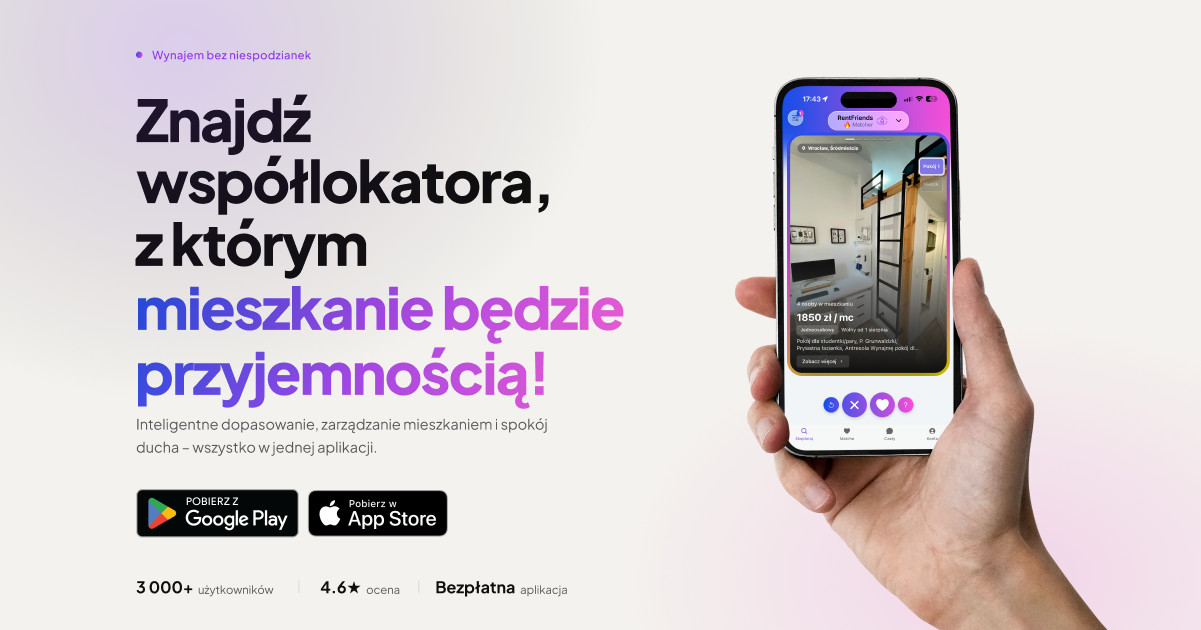
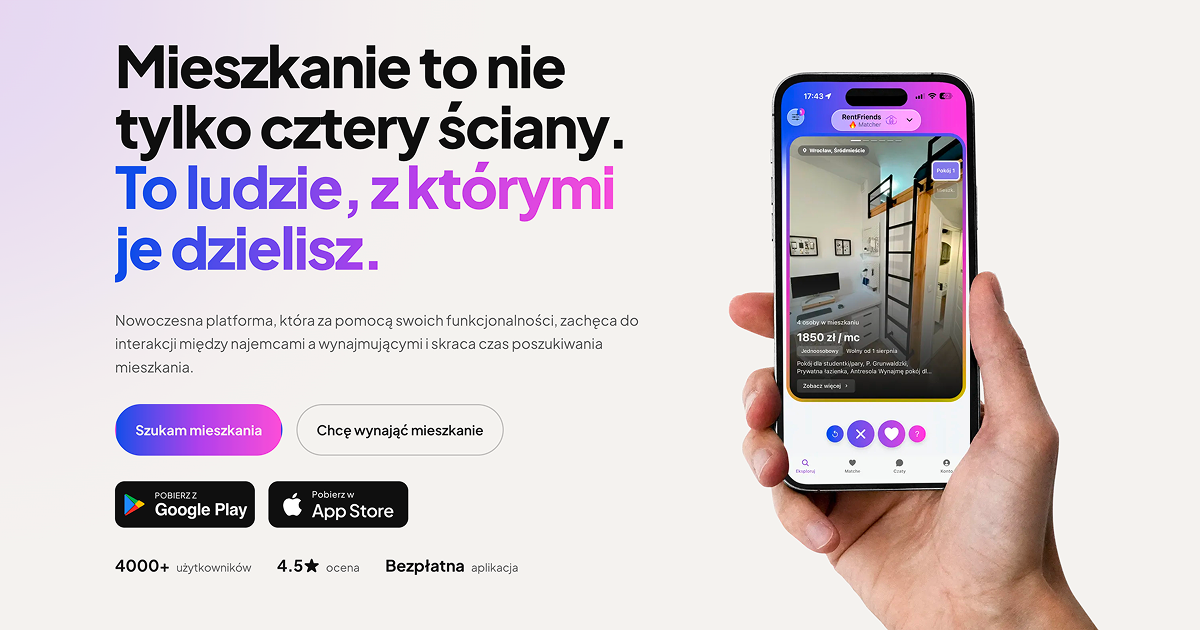
feat: delete dyzury.app descriptions

diff --git a/src/data/faq.ts b/src/data/faq.ts
@@ -1,42 +1,32 @@
 export const faqs = {
     pl: {
         col1: [
-            { q: "Jak działa RentFriends?", a: "RentFriends to dwa moduły w jednej aplikacji. Matcher pozwala szukać współlokatorów i mieszkań - swipe’ujesz profile dopasowane do twojego stylu życia, budżetu i preferencji. Manager (dawniej Dyżury.app) pomaga zarządzać wspólnym mieszkaniem - tworzy harmonogramy sprzątania, przydziela zadania i wysyła powiadomienia o dyżurach." },
+            { q: "Jak działa RentFriends?", a: "RentFriends pomaga znaleźć współlokatorów, pokoje i mieszkania. Swipe’ujesz profile i ogłoszenia dopasowane do Twojego stylu życia, budżetu i preferencji, a kontakt nawiązujecie dopiero wtedy, gdy obie strony wyrażą zainteresowanie." },
             { q: "Czy aplikacja jest bezpłatna?", a: "Tak, aplikacja jest bezpłatna." },
             { q: "Czy RentFriends jest dostępna na Androida i iOS?", a: "Aplikacja jest dostępna zarówno na Androida, jak i iOS." },
             { q: "Jak długo moje dane są przechowywane w aplikacji?", a: "Dane są przechowywane tak długo, jak korzystasz z aplikacji. Możesz je także usunąć w dowolnym momencie. Jeżeli chcesz, aby Twoje dane zostały usunięte z naszej bazy danych, skontaktuj się z nami poprzez email: kontakt@rentfriends.app." },
-            { q: "Czy mogę korzystać z aplikacji bez połączenia z internetem?", a: "Nie, aplikacja wymaga połączenia z internetem, aby działać poprawnie." },
-            { q: "Czy mogę korzystać z aplikacji na kilku urządzeniach?", a: "Tak, aplikację można zainstalować na kilku urządzeniach i korzystać z niej na każdym z nich. Dane są synchronizowane między urządzeniami." },
-            { q: "Jak działa wyszukiwanie współlokatorów?", a: "Tworzysz profil z informacjami o sobie i swoich preferencjach - styl życia, budżet, nawyki, lokalizacja. Potem przeglądasz profile innych osób i ogłoszenia mieszkań, swipe’ując w prawo (interesuje mnie) lub w lewo (pomiń). Aplikacja pokazuje Ci osoby i ogłoszenia dopasowane do Twoich filtrów. Jeśli obie strony swipe’ują w prawo, następuje match - dopiero wtedy możecie nawiązać kontakt. Dzięki temu nikt nie dostaje wiadomości od osób, które go nie interesują." }
+            { q: "Czy mogę korzystać z aplikacji bez połączenia z internetem?", a: "Nie, aplikacja wymaga połączenia z internetem, aby działać poprawnie." }
         ],
         col2: [
+            { q: "Czy mogę korzystać z aplikacji na kilku urządzeniach?", a: "Tak, aplikację można zainstalować na kilku urządzeniach i korzystać z niej na każdym z nich. Dane są synchronizowane między urządzeniami." },
+            { q: "Jak działa wyszukiwanie współlokatorów?", a: "Tworzysz profil z informacjami o sobie i swoich preferencjach - styl życia, budżet, nawyki, lokalizacja. Potem przeglądasz profile innych osób i ogłoszenia mieszkań, swipe’ując w prawo (interesuje mnie) lub w lewo (pomiń). Aplikacja pokazuje Ci osoby i ogłoszenia dopasowane do Twoich filtrów. Jeśli obie strony swipe’ują w prawo, następuje match - dopiero wtedy możecie nawiązać kontakt. Dzięki temu nikt nie dostaje wiadomości od osób, które go nie interesują." },
             { q: "Czy mój profil jest widoczny dla wszystkich?", a: "Nie - Twój profil widzą tylko osoby, u których pasują ustawione filtry, m.in. miasto, wiek, płeć, budżet czy preferencje dotyczące stylu życia. Jeśli ktoś szuka współlokatora w innym mieście albo z innymi kryteriami, Twój profil mu się po prostu nie pokaże." },
-            { q: "Czy mogę dodać kilku współlokatorów?", a: "Tak! Aplikacja pozwala dodać wielu współlokatorów. Każdy może dołączyć do wielu dyżurów, nie koniecznie każdy do tych samych. Np. jeżeli w mieszkaniu są 2 łazienki, to jeden współlokator może być przypisany do sprzątania jednej łazienki, a drugi do drugiej." },
-            { q: "Czy mogę ustawić różne zadania dla różnych dyżurów?", a: "Tak, aplikacja pozwala na przydzielanie różnych zadań do różnych dyżurów. Możesz ustawić, że w jednym tygodniu jeden współlokator sprząta kuchnię, a drugi łazienkę." },
-            { q: "Czy mogę ustawić, żeby dyżury były co dwa tygodnie?", a: "Dyżury przypisują się automatycznie co tydzień, ale można ustawić na poszczególnych zadaniach, żeby były wykonywane co dwa tygodnie." },
-            { q: "Czy mogę usunąć współlokatora z dyżuru?", a: "Tak, można usunąć współlokatora z dyżuru w dowolnym momencie." },
-            { q: "Czy Rent Friends i RentFriends to ta sama aplikacja?", a: "Tak, RentFriends (często zapisywane lub wyszukiwane ze spacją jako Rent Friends) to ta sama aplikacja do szukania współlokatorów, pokoi i mieszkań oraz wspólnego zarządzania domem."},
-            { q: "Czy mogę zmienić przypisane zadanie w trakcie tygodnia?", a: "Tak, zadania można edytować w każdej chwili, dostosowując harmonogram do bieżących potrzeb. Zadania zostaną zaktualizowane w obecnie trwającym dyżurze oraz w przyszłych." }
+            { q: "Czy Rent Friends i RentFriends to ta sama aplikacja?", a: "Tak, RentFriends (często zapisywane lub wyszukiwane ze spacją jako Rent Friends) to ta sama aplikacja do szukania współlokatorów, pokoi i mieszkań."}
         ]
     },
     en: {
         col1: [
-            { q: "How does RentFriends work?", a: "RentFriends consists of two modules in one application. The Matcher allows you to search for roommates and apartments - you swipe through profiles tailored to your lifestyle, budget, and preferences. The Manager (formerly Dyżury.app) helps you manage a shared apartment - it creates cleaning schedules, assigns tasks, and sends notifications about duties." },
+            { q: "How does RentFriends work?", a: "RentFriends helps you find roommates, rooms, and apartments. You swipe through profiles and listings tailored to your lifestyle, budget, and preferences, and you only get in touch once both sides have shown interest." },
             { q: "Is the app free?", a: "Yes, the application is completely free." },
             { q: "Is RentFriends available on Android and iOS?", a: "The app is available for both Android and iOS devices." },
             { q: "How long is my data stored in the app?", a: "Your data is stored for as long as you use the app. You can also delete it at any time. If you want your data to be removed from our database, please contact us via email at: kontakt@rentfriends.app." },
-            { q: "Can I use the app without an internet connection?", a: "No, the application requires an active internet connection to function properly." },
-            { q: "Can I use the app on multiple devices?", a: "Yes, you can install the app on multiple devices and use it on each of them. Your data is synced automatically across all devices." },
-            { q: "How does the roommate search work?", a: "You create a profile containing information about yourself and your preferences (lifestyle, budget, habits, location). Then, you browse other people's profiles and apartment listings, swiping right (interested) or left (skip). The app displays users and listings matched to your filters. If both parties swipe right, a match is made - only then can you start chatting. This ensures no one receives messages from people they aren't interested in." }
+            { q: "Can I use the app without an internet connection?", a: "No, the application requires an active internet connection to function properly." }
         ],
         col2: [
+            { q: "Can I use the app on multiple devices?", a: "Yes, you can install the app on multiple devices and use it on each of them. Your data is synced automatically across all devices." },
+            { q: "How does the roommate search work?", a: "You create a profile containing information about yourself and your preferences (lifestyle, budget, habits, location). Then, you browse other people's profiles and apartment listings, swiping right (interested) or left (skip). The app displays users and listings matched to your filters. If both parties swipe right, a match is made - only then can you start chatting. This ensures no one receives messages from people they aren't interested in." },
             { q: "Is my profile visible to everyone?", a: "No - your profile is only visible to people whose filters match yours (e.g., city, age, gender, budget, lifestyle preferences). If someone is looking for a roommate in a different city or with different criteria, your profile simply won't appear to them." },
-            { q: "Can I add multiple roommates?", a: "Yes! The app allows you to add multiple roommates. Everyone can join various duties, not necessarily everyone on the same ones. For instance, if an apartment has two bathrooms, one roommate can be assigned to clean one bathroom, and another to clean the second." },
-            { q: "Can I assign different tasks for different duties?", a: "Yes, the app lets you assign distinct tasks to different duties. You can set it up so that one week one roommate cleans the kitchen, and another cleans the bathroom." },
-            { q: "Can I set duties to occur every two weeks?", a: "Duties are assigned automatically every week, but you can configure specific tasks to be performed on a bi-weekly basis." },
-            { q: "Can I remove a roommate from a duty?", a: "Yes, you can remove a roommate from a duty at any time." },
-            { q: "Are Rent Friends and RentFriends the same app?", a: "Yes, RentFriends (often written or searched with a space as 'Rent Friends') is exactly the same app for finding roommates, rooms, and apartments, as well as managing a shared home." },
-            { q: "Can I modify an assigned task during the week?", a: "Yes, tasks can be edited at any time to adjust the schedule to current needs. The tasks will be automatically updated for the current ongoing duty and all future ones." }
+            { q: "Are Rent Friends and RentFriends the same app?", a: "Yes, RentFriends (often written or searched with a space as 'Rent Friends') is exactly the same app for finding roommates, rooms, and apartments." }
         ]
     }
 };

diff --git a/src/i18n/ui.ts b/src/i18n/ui.ts
@@ -7,7 +7,7 @@ export const defaultLang = 'pl';
 
 export const ui = {
     pl: {
-        'meta.home.description': 'RentFriends pomaga znaleźć idealnego współlokatora i opanować domowe obowiązki bez stresu. Sprawdź naszą aplikację!',
+        'meta.home.description': 'RentFriends pomaga znaleźć pokój, mieszkanie i współlokatora, z którym dobrze się mieszka. Dopasowujemy ludzi po stylu życia, budżecie i nawykach.',
         'meta.landlords.description': 'Wynajmuj pokoje i mieszkania właściwym osobom. RentFriends pomaga właścicielom szybciej znaleźć dopasowanych lokatorów. Dodawanie ogłoszeń jest bezpłatne.',
         'meta.privacy.description': 'Dowiedz się, jakie dane zbiera RentFriends, w jakim celu je przetwarza i jak możesz zarządzać swoją prywatnością oraz plikami cookie.',
         'meta.terms.description': 'Zasady korzystania z aplikacji i serwisu RentFriends - prawa i obowiązki użytkowników, zakres usług oraz warunki ich świadczenia.',
@@ -219,8 +219,8 @@ export const ui = {
         'reviews.title.part1': 'Co mówią',
         'reviews.title.part2': 'użytkownicy?',
         'reviews.1.text': 'Super pomysł, tego właśnie brakowało – nikt nie lubi szukać mieszkania przez olx albo przez Facebooka.',
-        'reviews.2.text': 'Prowadzę kilka mieszkań na pokoje dla studentów i ta apka uratowała mi sporo telefonów typu „zmywarka nie działa”. Dodałam zadania w stylu „Wyczyszczenie filtra zmywarki” i... nagle działa 😉 Prosta, czytelna, szybkie checklisty. Naprawdę polecam.',
-        'reviews.3.text': 'Świetny sposób na szybkie dzielenie obowiązków w mieszkaniu',
+        'reviews.2.text': 'znalazłem pokój w Krakowie, super apka, polecam!',
+        'reviews.3.text': 'super aplikacja bardzo pomocna i przejrzysta',
         'reviews.prev': 'Poprzednia opinia',
         'reviews.next': 'Następna opinia',
 
@@ -249,8 +249,6 @@ export const ui = {
         'features.step3.desc': 'Nasz algorytm łączy osoby o podobnym stylu życia, gwarantując mniej konfliktów w przyszłości.',
         'features.step4.title': 'Czatuj',
         'features.step4.desc': 'Zanim podpiszecie umowę, poznajcie się bliżej w naszym bezpiecznym, wbudowanym czacie.',
-        'features.step5.title': 'Zamieszkaj razem:<br />rozdziel dyżury i podziel wydatki',
-        'features.step5.desc': 'Rachunki, grafik sprzątania i zakupy w jednej aplikacji. Przejrzysty podział obowiązków to gwarancja spokoju w mieszkaniu.',
         'features.community.title': 'Dołącz do naszej społeczności',
         'features.stats.users': 'zadowolonych<br />użytkowników',
         'features.stats.rating': 'średnia ocen<br />na App Store',
@@ -434,7 +432,7 @@ export const ui = {
         'cookies.manage': 'Ustawienia cookies'
     },
     en: {
-        'meta.home.description': 'RentFriends helps you find the right flatmate and stay on top of household chores without the stress. Take a look at our app!',
+        'meta.home.description': 'RentFriends helps you find a room, a flat and a flatmate you\'ll actually enjoy living with. We match people by lifestyle, budget and habits.',
         'meta.landlords.description': 'Rent your rooms and flats to the right people. RentFriends helps landlords find well-matched tenants faster. Publishing a listing is free.',
         'meta.privacy.description': 'Find out what data RentFriends collects, why we process it, and how you can manage your privacy and your cookie preferences.',
         'meta.terms.description': 'The rules for using the RentFriends app and website - user rights and obligations, the scope of our services and the terms we provide them on.',
@@ -646,8 +644,8 @@ export const ui = {
         'reviews.title.part1': 'What do our',
         'reviews.title.part2': 'users say?',
         'reviews.1.text': 'Great idea, exactly what was missing – no one likes searching for a flat through OLX or Facebook.',
-        'reviews.2.text': 'I manage a few student rooms and this app saved me a lot of "the dishwasher is broken" calls. I added tasks like "Clean the dishwasher filter" and... suddenly it works 😉 Simple, clear, quick checklists. Highly recommend.',
-        'reviews.3.text': 'A great way to quickly divide chores in the apartment.',
+        'reviews.2.text': 'I found a room in Krakow, great app, highly recommend!',
+        'reviews.3.text': 'great app, really helpful and clear',
         'reviews.prev': 'Previous review',
         'reviews.next': 'Next review',
 
@@ -676,8 +674,6 @@ export const ui = {
         'features.step3.desc': 'Our algorithm connects people with similar lifestyles, ensuring fewer conflicts in the future.',
         'features.step4.title': 'Chat',
         'features.step4.desc': 'Before signing the lease, get to know each other better in our secure, built-in chat.',
-        'features.step5.title': 'Move in together:<br />divide chores and split expenses',
-        'features.step5.desc': 'Bills, cleaning schedules, and shopping in one app. A clear division of duties guarantees peace in the apartment.',
         'features.community.title': 'Join our community',
         'features.stats.users': 'happy<br />users',
         'features.stats.rating': 'average rating<br />on App Store',
